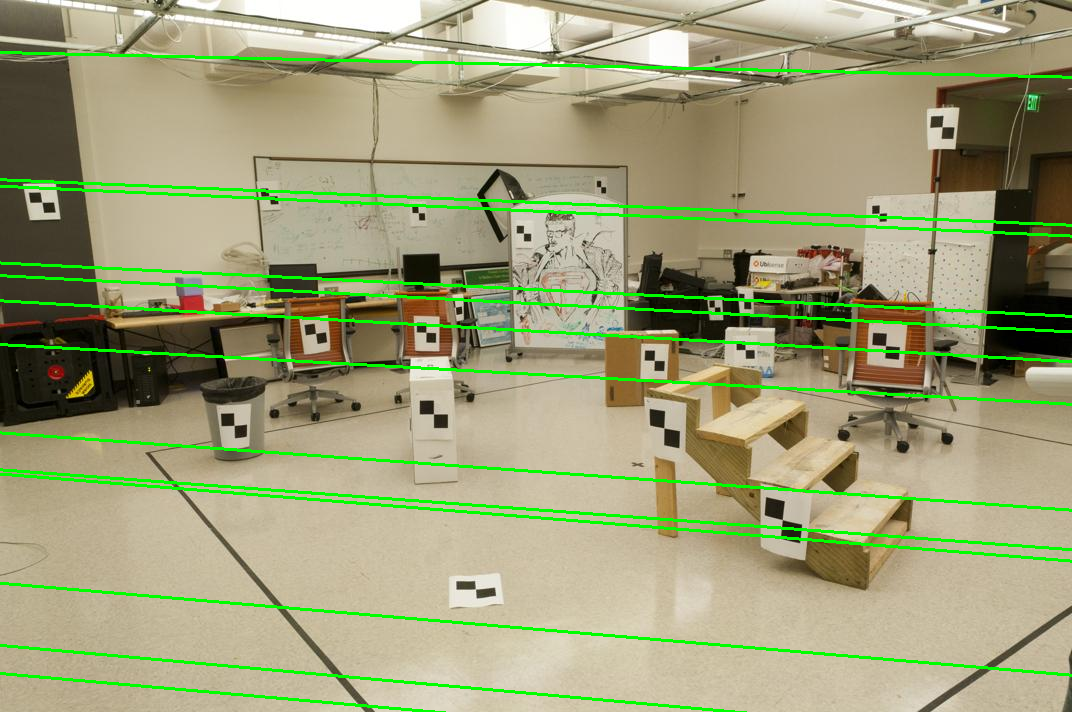
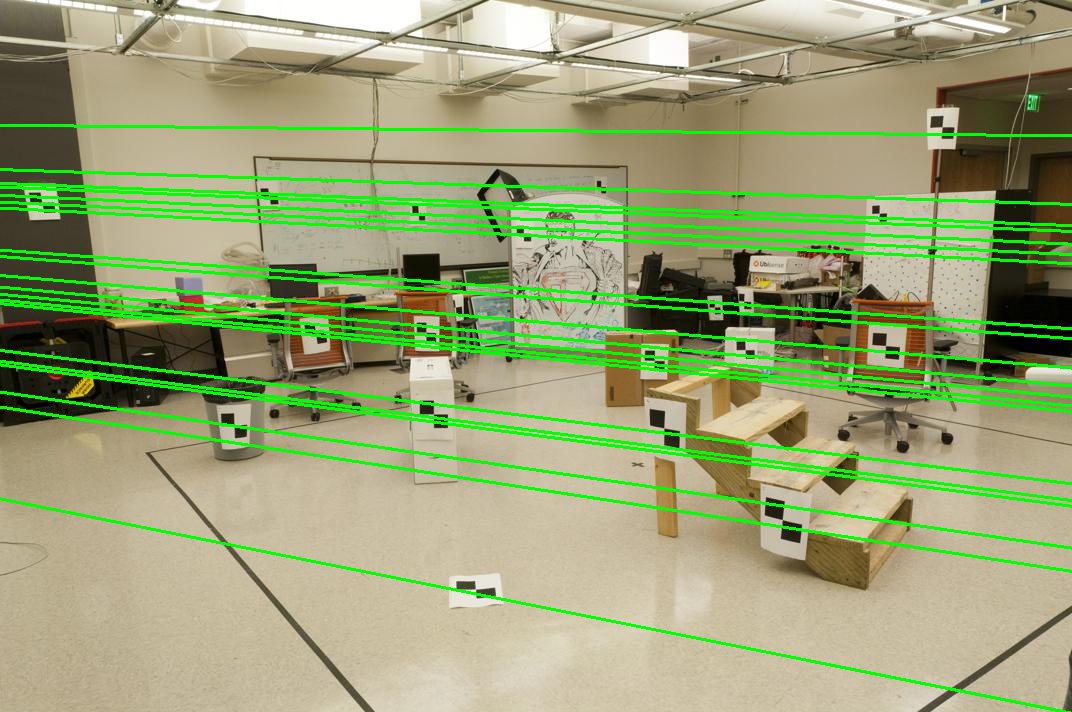
Finish tasks for ps3

diff --git a/ps3_python/ps3.py b/ps3_python/ps3.py
@@ -87,7 +87,7 @@ def ps3_2_b(printing=True):
     U,S,V = np.linalg.svd(F)
     S[-1] = 0
     S = np.diag(S)
-    F = np.dot(np.dot(U,S), V.T) # TODO V or V.T -> see results and decide
+    F = np.dot(np.dot(U,S), V)
     if printing:
         print('Fundametal Matrix with Rank=2: \n%s'%F)
     return F
@@ -104,8 +104,8 @@ def ps3_2_c():
     pts_b = np.column_stack((pts_b, np.ones(pts_a.shape[0])))
     # estimate fundamental matrix
     F = ps3_2_b(printing=False)
-    F,_ = cv2.findFundamentalMat(pts_a, pts_b, method=cv2.FM_8POINT)
-    # find the epipolar lines for each point in both images
+    #  F,_ = cv2.findFundamentalMat(pts_a, pts_b, method=cv2.FM_8POINT)
+    #  find the epipolar lines for each point in both images
     eplines_a = np.dot(F.T, pts_b.T).T
     eplines_b = np.dot(F, pts_a.T).T
     n, m, _ = img_a.shape
@@ -125,18 +125,83 @@ def ps3_2_c():
     cv2.imshow('', np.hstack((img_a,img_b))); cv2.waitKey(0); cv2.destroyAllWindows()
     # save the images with the highlighted epipolar lines
     cv2.imwrite('output/ps3-2-c-1.png', img_a)
-    cv2.imwrite('output/ps3-2-c-b.png', img_b)
+    cv2.imwrite('output/ps3-2-c-2.png', img_b)
     print('Images with highlighted epipolar lines saved successfully!')
 
 def ps3_2_d():
-    pass
+    # load points
+    pts_a = np.array(load_file('input/pts2d-pic_a.txt'))
+    pts_b = np.array(load_file('input/pts2d-pic_b.txt'))
+    # Calculate normalization matrices
+    m_a = np.mean(pts_a, axis=0)
+    m_b = np.mean(pts_b, axis=0)
+    pts_a_temp = np.subtract(pts_a, m_a[None,:])
+    pts_b_temp = np.subtract(pts_b, m_b[None,:])
+    s_a = 1 / np.abs(np.std(pts_a_temp, axis=0)).max()
+    s_b = 1 / np.abs(np.std(pts_b_temp, axis=0)).max()
+    S_a = np.diag([s_a, s_a, 1])
+    S_b = np.diag([s_b, s_b, 1])
+    C_a = np.array([[1, 0, -m_a[0]],[0, 1, -m_a[1]],[0, 0, 1]])
+    C_b = np.array([[1, 0, -m_b[0]],[0, 1, -m_b[1]],[0, 0, 1]])
+    T_a = np.dot(S_a, C_a)
+    T_b = np.dot(S_b, C_b)
+    # convert points to homogenious coordinates
+    pts_a = np.column_stack((pts_a_temp, np.ones(pts_a.shape[0])))
+    pts_b = np.column_stack((pts_b_temp, np.ones(pts_b.shape[0])))
+    # Normalize the points (20x3)*(3x3)
+    pts_a_norm = np.dot(pts_a, T_a)
+    pts_b_norm = np.dot(pts_b, T_b)
+    # Estimate fundamental matrix
+    F = least_squares_F_solver(pts_a_norm, pts_b_norm)
+    # Convert the fundamental matrix to Rank=2
+    U,S,V = np.linalg.svd(F)
+    S[-1] = 0
+    S = np.diag(S)
+    F = np.dot(np.dot(U,S), V)
+    return T_a, T_b, F
 
 def ps3_2_e():
-    pass
+    # load images
+    img_a = cv2.imread('input/pic_a.jpg', cv2.IMREAD_COLOR)
+    img_b = cv2.imread('input/pic_b.jpg', cv2.IMREAD_COLOR)
+    # load points
+    pts_a = np.array(load_file('input/pts2d-pic_a.txt'))
+    pts_b = np.array(load_file('input/pts2d-pic_b.txt'))
+    # convert pts to homogenious coordinates
+    pts_a = np.column_stack((pts_a, np.ones(pts_a.shape[0])))
+    pts_b = np.column_stack((pts_b, np.ones(pts_b.shape[0])))
+    # Estimate fundamental matrix
+    T_a, T_b, F = ps3_2_d()
+    # create better fundamental matrix
+    F = np.dot(T_b.T, np.dot(F, T_a))
+    #  find the epipolar lines for each point in both images
+    eplines_a = np.dot(F.T, pts_b.T).T
+    eplines_b = np.dot(F, pts_a.T).T
+    n, m, _ = img_a.shape
+    line_L = np.cross([0,0,1],[n,0,1])
+    line_R = np.cross([0,m,1],[n,m,1])
+    # draw the epipolar lines on the images
+    for line_a, line_b in zip(eplines_a, eplines_b):
+        P_a_L = np.cross(line_a, line_L)
+        P_a_R = np.cross(line_a, line_R)
+        P_a_L = (P_a_L[:2] / P_a_R[2]).astype(int)
+        P_a_R = (P_a_R[:2] / P_a_R[2]).astype(int)
+        cv2.line(img_a, tuple(P_a_L[:2]), tuple(P_a_R[:2]), (0,255,0), thickness=2)
+        P_b_L = np.cross(line_b, line_L)
+        P_b_R = np.cross(line_b, line_R)
+        P_b_L = (P_b_L[:2] / P_b_R[2]).astype(int)
+        P_b_R = (P_b_R[:2] / P_b_R[2]).astype(int)
+        cv2.line(img_b, tuple(P_b_L[:2]), tuple(P_b_R[:2]), (0,255,0), thickness=2)
+    # save the images with the highlighted epipolar lines
+    cv2.imwrite('output/ps3-2-e-1.png', img_a)
+    cv2.imwrite('output/ps3-2-e-2.png', img_b)
+    print('Images with highlighted epipolar lines saved successfully!')
+    print('Fundametal Matrix F=\n%s'%F)
+    cv2.imshow('', np.hstack((img_a,img_b))); cv2.waitKey(0); cv2.destroyAllWindows()
 
 ps3_list = OrderedDict([('1a', ps3_1_a), ('1b', ps3_1_b), ('1c', ps3_1_c),
                         ('2a', ps3_2_a), ('2b', ps3_2_b), ('2c', ps3_2_c),
-                        ('2d', ps3_2_d)])
+                        ('2d', ps3_2_d), ('2e', ps3_2_e)])
 
 if __name__ == '__main__':
     if len(sys.argv) == 2:
